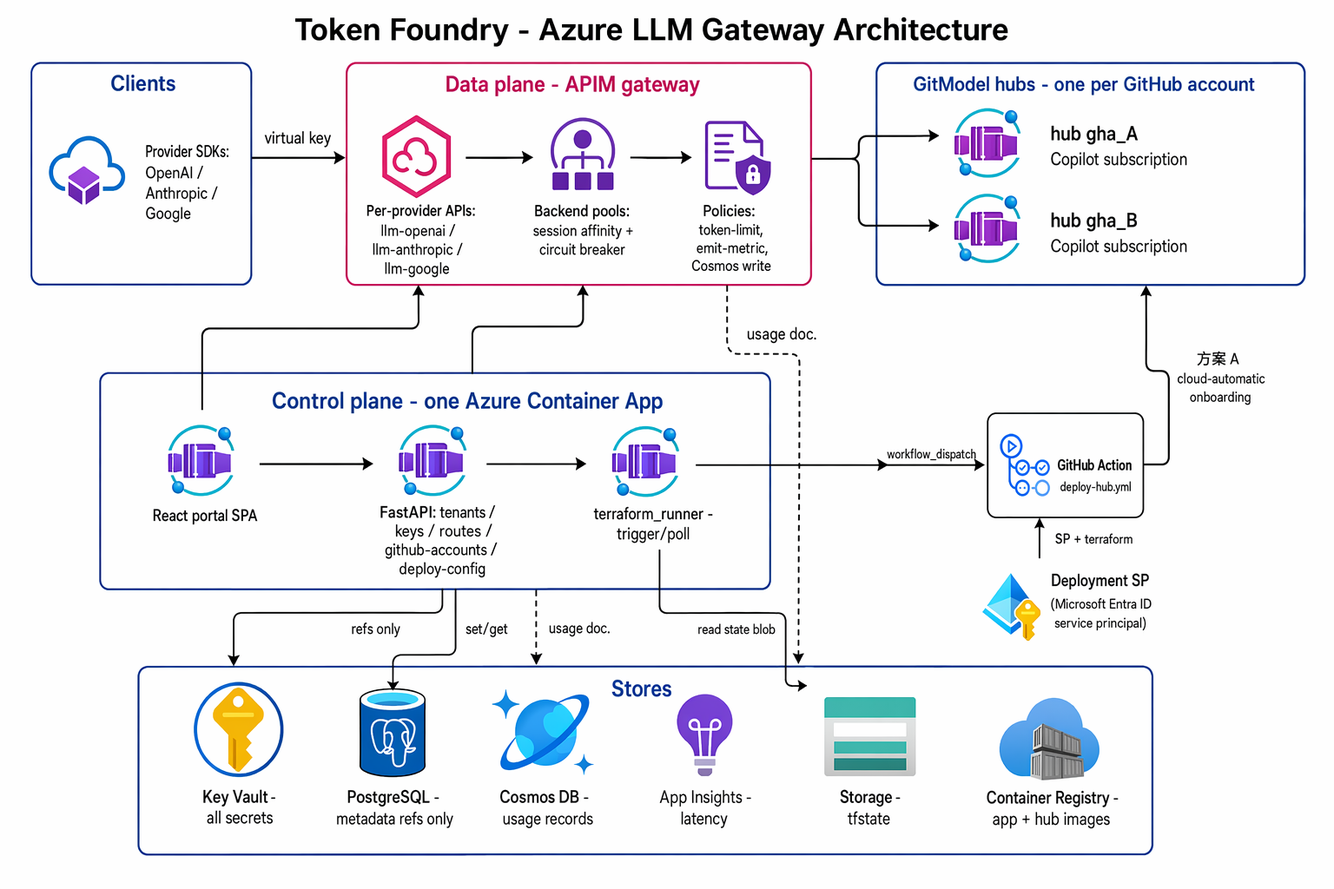
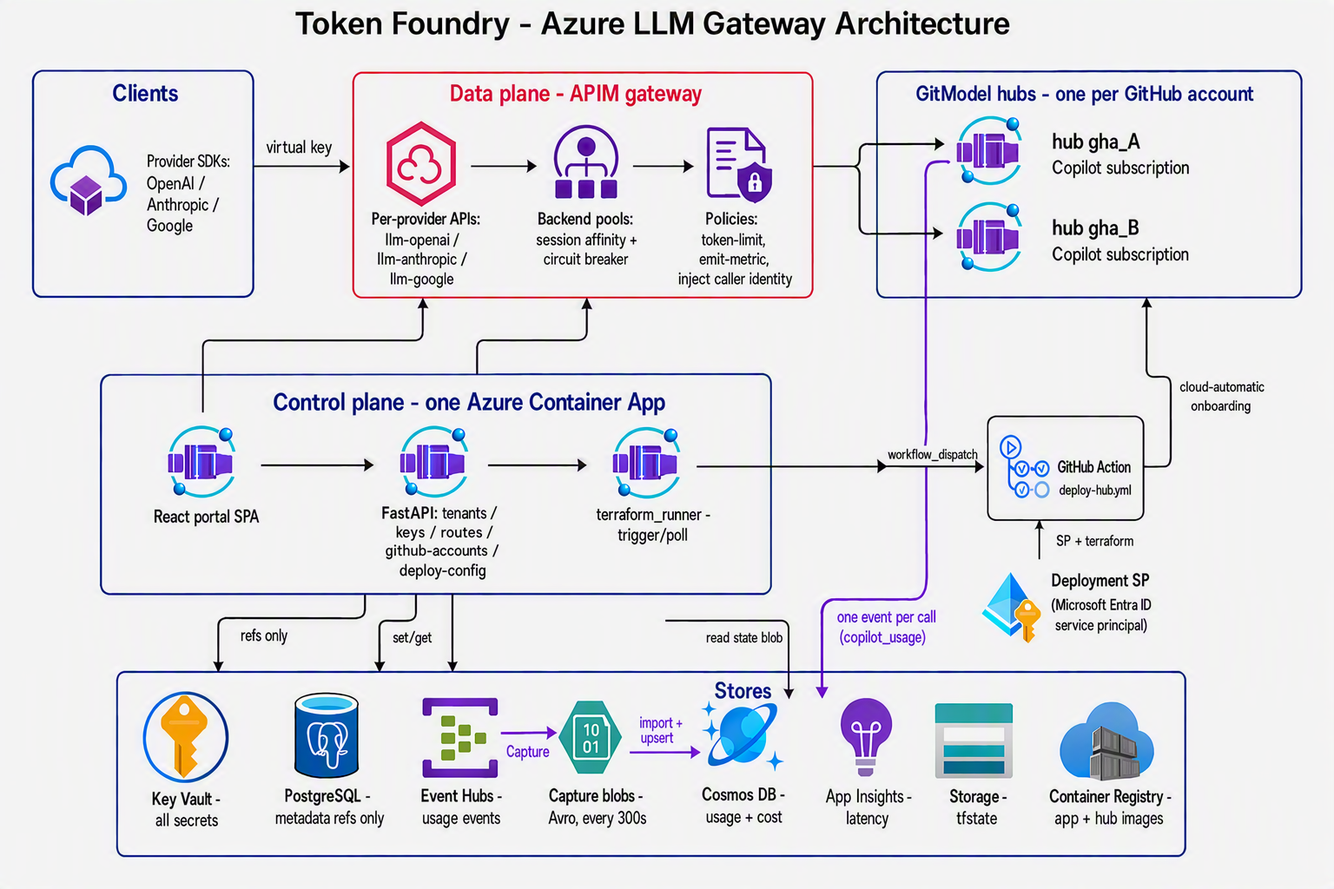
docs: document the Event Hub billing pipeline and refresh the architecture diagram
Usage stopped flowing through APIM's outbound policy some time ago — the hub
now emits one event per call to Event Hub, Capture flushes them to Avro blobs,
and the control plane's import job folds them into Cosmos. Both READMEs still
described the retired design, so anyone reading them would look for a Cosmos
write that no longer happens.

- mermaid: add EH / CAP / IMP nodes, drop the two `usage doc.` arrows out of
  APIM, and change the policy caption to what it actually does now (inject
  caller identity, not write Cosmos).
- new "how usage is collected" section covering the five hops, why cost comes
  from upstream `copilot_usage` rather than a price table we maintain, and the
  two chained 300s intervals that make data visible in ~5 min (worst case 10).
- state the cost plainly: the hub keeps no local usage, so an Event Hub or
  importer outage loses that window outright.
- note that APIM's identity still holds Cosmos Data Contributor from the
  retired policy — it is live over-permission and should be removed.
- architecture.png redrawn from the mermaid source: Event Hubs + Capture blobs
  now appear in the stores row with the billing flow drawn through them.

diff --git a/README.zh.md b/README.zh.md
@@ -22,7 +22,7 @@ flowchart TB
     subgraph dataplane[数据平面 — APIM 网关]
         API[按供应商的 API<br/>llm-openai / llm-anthropic / llm-google]
         POOL[后端池<br/>会话粘性 + 熔断]
-        POL[策略<br/>token 限流 · 计量 · 写 Cosmos]
+        POL[策略<br/>token 限流 · 计量 · 注入调用方身份]
     end
 
     subgraph hubs[GitModel hub — 每个 GitHub 账号一个]
@@ -35,66 +35,89 @@ flowchart TB
         APISRV[FastAPI: 租户 / 密钥 / 路由 /<br/>github-accounts / deploy-config]
         PROV[ApimProvisioner]
         TRUN[terraform_runner<br/>方案 A 触发/轮询]
+        IMP[用量导入作业<br/>解 Avro · 算成本 · upsert]
     end
 
     subgraph stores[存储]
         KV[(Key Vault<br/>所有密钥)]
         PG[(PostgreSQL<br/>元数据,仅引用)]
-        COS[(Cosmos DB<br/>用量记录)]
+        EH[[Event Hub<br/>usage]]
+        CAP[(Capture Blob<br/>Avro,300s 一刷)]
+        COS[(Cosmos DB<br/>用量 + 成本)]
         INS[App Insights<br/>延迟遥测]
     end
 
     SDK -->|虚拟密钥| API --> POOL --> H1 & H2
-    POL -.用量文档.-> COS
+    H1 & H2 -->|每次调用一个事件<br/>含上游 copilot_usage| EH --> CAP
+    CAP -->|列 blob| IMP --> COS
     PORTAL --> APISRV --> PROV -->|ARM REST| API & POOL
     APISRV --> TRUN -->|workflow_dispatch| GHA[GitHub Action<br/>deploy-hub.yml]
     GHA -->|SP + terraform| H1 & H2
     APISRV -->|仅引用| PG
     APISRV -->|set/get| KV
-    APISRV -->|读用量| COS
+    APISRV -->|读用量/成本| COS
     APISRV -->|读延迟| INS
     TRUN -->|读 state blob| TFSTATE[(tfstate 存储)]
 ```
 
 > **唯一不变量:** 控制平面配置网关(管理平面),**绝不介入请求路径**。LLM 流量走
-> 客户端 → APIM → hub,由 APIM 策略计量。全系统只有**一个** Cosmos DB —— APIM 每次
-> 调用写一条用量记录(出站策略),FastAPI 从同一个库读出来给用量页。完整的系统图、
-> 方案 A 接入时序、实体模型见
+> 客户端 → APIM → hub。用量由 **hub** 上报:每次调用发一个事件到 Event Hub,经
+> Capture 落成 Avro blob,再由控制平面的导入作业批量写进 Cosmos;门户从同一个库
+> 读出来。计费口径来自**上游 GitHub Copilot 自己返回的 `copilot_usage`**(含单价
+> 与总价),不是我们维护的价目表。完整的系统图、方案 A 接入时序、实体模型见
 > **[docs/architecture.md](docs/architecture.md)** ([中文](docs/architecture.zh.md))。
 
 ![Token Foundry 架构](docs/architecture.png)
 
-- **APIM = 数据平面** —— 鉴权、token 限流、路由、负载均衡 + 熔断,以及那条
-  **每次调用直接把一条用量记录写进 Cosmos 的出站策略**(托管身份鉴权、
-  `send-one-way-request`,所以绝不阻塞 LLM 响应)。
-- **FastAPI = 控制平面** —— 只负责开通、计量、强制策略;从 Cosmos 读回用量、
-  从 App Insights 读延迟;同时托管构建好的 SPA(一个镜像、一个 Container App、
-  无需 nginx)。
+- **APIM = 数据平面** —— 鉴权、token 限流、路由、负载均衡 + 熔断,以及把调用方
+  身份注入请求头(`x-tf-subscription` / `x-tf-api` / `x-tf-request-id`),这是分账
+  的依据。**它不写用量存储** —— 用量由 hub 上报。
+- **FastAPI = 控制平面** —— 只负责开通、计量、强制策略;把 Event Hub Capture 的
+  blob 导入 Cosmos,再从 Cosmos 读回用量与成本、从 App Insights 读延迟;同时托管
+  构建好的 SPA(一个镜像、一个 Container App、无需 nginx)。
 - **React = 人机层** —— 运营控制台(管理端)+ 客户门户(客户端)。
 
 ### 用量是怎么采集的(计费链路)
 
-在这条链路存在之前,门户的用量数字一直是 `0` —— 因为根本没有写入方。现在它是
-一次直写就搞定:
+计费口径来自**上游自己**:GitHub Copilot 在每个响应里返回 `copilot_usage`,里面
+有各类 token 的数量、单价和总价。我们不再维护自己的价目表 —— 那意味着每次上游调价
+都要人工跟进,而两张表迟早会漂移。
 
-1. 客户端带着虚拟密钥通过 APIM 调用某个供应商 API。
-2. 响应成功时,APIM 的**出站策略**(`apim/policies/outbound-cosmos-write.xml`)
-   往 Cosmos `usage` 容器 POST 一条文档 —— **供应商的原始响应 JSON** 加上元数据
-   (请求 id、订阅/虚拟密钥 id、时间戳、API 名称、分区键)。写入时**不**解析 token,
-   token 就留在 `raw_response` 里。
-3. 控制平面在**读取**时才解析 token(`app/api/usage.py`),按各家格式处理
-   (`prompt_tokens`/`completion_tokens`、Anthropic 与 OpenAI-Responses 的
-   `input_tokens`/`output_tokens`、各种缓存 token 变体),并通过把记录里的
-   虚拟密钥 id 与 PostgreSQL 比对(`虚拟密钥 → 项目 → 租户`)来确定该记录归属的租户。
+```text
+客户端 → APIM → hub → GitHub Copilot
+           │       │
+           │       └→ Event Hub → Capture(Avro) → 导入作业 → Cosmos → 门户
+           └ 注入 x-tf-subscription / x-tf-api / x-tf-request-id
+```
 
-这是一个有意为之的 MVP 取舍:`send-one-way-request` 是即发即忘,写入失败**不会重试**
-(对趋势性用量来说偶尔丢失可以接受)。计费级、可重放的精确记账走**计划中的** Event Hub
-链路(第二阶段 —— 流和消费者都尚未构建)。
+1. 客户端带着虚拟密钥通过 APIM 调用某个供应商 API。APIM 注入三个身份头,并带
+   `exists-action="override"` —— 否则客户端可以伪造 `x-tf-subscription`,把账算到
+   别人头上。
+2. hub 转发给上游,并从响应里取出 `copilot_usage` **原样**放进事件体,连同身份、
+   模型、是否流式、以及客户端可选的 `metadata.user_id`/`user`(终端用户标签)。
+   hub **不做任何成本换算** —— 算钱是导入侧的事,这样上游改口径时不用重放数据。
+   流式响应也一样采集:`copilot_usage` 在 SSE 流里单独占一个 chunk,hub 扫描全流
+   取出它。
+3. 事件进 Event Hub(SDK buffered 模式,不阻塞响应路径;发送失败只丢事件、绝不影响
+   请求成败),由 **Capture** 每 300 秒刷成 Avro blob 落到存储。
+4. 控制平面的**导入作业**(`app/services/usage_capture_import.py`)按水位线列出新
+   blob、解 Avro、算成本(`USD = total_nano_aiu / 1e11`)、**upsert** 进 Cosmos ——
+   文档 id 就是 APIM 的 request id,所以 Capture 的 at-least-once 重复投递天然幂等。
+5. 门户从 Cosmos 读:按模型/API/虚拟密钥/hub/终端用户分组,每组带 token 明细和成本。
+
+**延迟**:Capture 300s + 导入轮询 300s,所以最坏约 10 分钟、平均约 5 分钟可见。计费
+场景可接受;要看近实时用量走 App Insights 那条线。
+
+**代价**:hub 本地不再存用量,唯一出口是 Event Hub。Event Hub 或导入作业出问题时,
+那段时间的计费数据无处找回(hub 的 SQLite 本就在 `/tmp`、重启即空,留着也不是可靠
+退路,所以这是显性化而非新增的风险)。
 
 ### 用量页有两个数据源,分开展示
 
-- **用量与成本 —— 来自 Cosmos**(计费源):每次调用的明细日志,含模型、项目/密钥、
-  输入/输出/缓存 token。
+- **用量与成本 —— 来自 Cosmos**(计费源):每次调用的明细,按模型 / API / 虚拟密钥 /
+  hub / 终端用户分组,含 input、cache_read、cache_write、output 各类 token 与
+  `cost_usd`/`billed_usd`。**流式与非流式一视同仁** —— 这是 App Insights 那条线做
+  不到的(它读不到流式响应体里的 token)。
 - **调用与延迟 —— 来自 App Insights**(遥测,可能被采样):调用次数、p50/p95、
   **网关 vs 后端延迟拆分**(APIM 耗时 vs LLM 耗时)、失败数,以及每小时调用趋势。
   被采样的数据用于健康度/性能没问题,但**绝不能**用于计费 —— 这正是两个数据源
@@ -126,9 +149,9 @@ flowchart TB
 - **供应商自家的 SDK 直接可用。** 每家供应商有自己独立的 APIM API,沿用该供应商
   *原生*的订阅密钥请求头(Anthropic 用 `x-api-key`,OpenAI/Azure/Google 用
   `api-key`),客户端只需把现有 SDK 指向网关 URL,其它一律不改。
-- **用量采集零应用延迟。** **出站策略**通过 `send-one-way-request`(发完即走、
-  托管身份鉴权)把每次调用的一条用量记录直接写进 Cosmos —— LLM 响应绝不因这次写入
-  而阻塞,也没有任何应用进程挡在响应路径上。
+- **用量采集零应用延迟。** hub 用 buffered producer 把每次调用的一个事件发往
+  Event Hub —— 发送只是一次内存写入,LLM 响应不会因它阻塞。响应路径上没有任何
+  一环能让请求失败:Event Hub 挂了只丢事件,不丢调用。
 - **数据路径上没有上游密钥。** 真实的供应商密钥存在 Key Vault 里、绑定到 APIM
   后端;客户端始终只持有一个按租户隔离的虚拟密钥(一个 APIM 订阅),可以被独立
   挂起/吊销。网关用自己的**托管身份**访问 Azure 资源(Cosmos、AOAI)—— 全程无密钥。
@@ -148,8 +171,9 @@ flowchart TB
   `disableLocalAuth`(仅 AAD)运行。要轮换的密钥更少,而且 Terraform
   (按环境用 workspace 隔离)能复现整套环境。
 
-> 诚实地说明取舍:MVP 的用量写入是发完即走的,所以偶尔丢一条记录、对*趋势*用量
-> 是可接受的。计费级、可重放的精确记账走计划中的 Event Hub 那条路(第二阶段)。
+> 诚实地说明取舍:丢失窗口就是 producer 缓冲区里的那几秒 —— 正常关闭会 flush,
+> 只有实例被强杀才会丢。要彻底消除,得给 hub 挂持久卷,那会推翻 infra 里
+> 「hub 无状态」的既定设计。
 
 ## 目录结构
 
@@ -185,7 +209,7 @@ Key Vault / APIM 残留都不会撞。
 | `postgres` | PostgreSQL Flexible Server 16 | `Standard_B1ms` 突发型。防火墙规则 `AllowAzureServices` 让 Container Apps 能连上 —— 生产环境应收紧为 VNet。 |
 | `cosmos` | Cosmos DB for NoSQL | **Serverless**,`disableLocalAuth: true`(仅 AAD)。库 `tokenfoundry`,容器 `usage`,分区键 `/pk`(`subscriptionId_yyyymm`),**90 天 TTL**。 |
 | `acr` | 容器注册表(Basic) | `adminUserEnabled: false` —— 拉取走 Container App 的托管身份(AcrPull)。同时存 `tokenfoundry:<tag>` **和** `gitmodel:<tag>`(hub 镜像)。 |
-| `apim` | API Management(Developer SKU) | 系统分配身份。配置 App Insights 的 logger + diagnostic,并给自己的身份授予 **Cosmos Data Contributor**,使出站策略能写用量。 |
+| `apim` | API Management(Developer SKU) | 系统分配身份。配置 App Insights 的 logger + diagnostic。**注:身份上还留着 Cosmos Data Contributor,是已废弃的出站直写策略的遗留 —— 现在用不到了,应当移除。** |
 | `apim-backends` | 后端池 + 熔断器 | 经 `azapi` 使用**预览版** API 版本。占位池;真正的每供应商池 + 每账号 hub 后端由 FastAPI provisioner 在**运行时**创建。 |
 | `deployer` | tfstate 存储账户 | **方案 A** 的 GitHub Action 读写每账号 hub state(`hubs/<id>.tfstate`)的远程 state blob 容器;控制平面从中读输出。 |
 | `appsecrets` | Key Vault 密钥 | 拼装 Postgres 连接串,并写入 `tf-database-url` / `tf-jwt-secret` / `tf-admin-password`。 |
@@ -203,7 +227,8 @@ Container App 有意使用**两个**身份:
   (写订阅密钥 + BYO 密钥)、**Cosmos DB Data Contributor**(读用量 —— 数据平面
   RBAC,区别于控制平面),以及 App Insights 上的 **Monitoring Reader**(KQL 遥测)。
 
-APIM 的系统身份另外被单独授予 **Cosmos DB Data Contributor**,用于出站策略的写入链路。
+APIM 的系统身份上还留着 **Cosmos DB Data Contributor** —— 那是已废弃的出站直写策略
+的遗留;用量现在由 hub 经 Event Hub 上报,APIM 不再需要写 Cosmos,这条授权应当移除。
 
 **方案 A 的部署服务主体**(由 `scripts/create-deployer-sp.sh` 创建)是一个独立身份 ——
 订阅级 **Contributor** + **User Access Administrator**,外加 tfstate 存储账户上的
@@ -355,7 +380,7 @@ URL 和一个虚拟密钥;所需变量见脚本头部。
   (按环境用 workspace 隔离)、token 限流 + emit-token-metric 策略、
   **每 key 的 TPM + token-quota 限额**(named-value 驱动)、
   **方案 A 云端自动 GitModel hub 接入**(设备流 → GitHub Action → 入池)、
-  **APIM→Cosmos 直写用量采集**,以及**双数据源用量页**
+  **hub → Event Hub → Capture → Cosmos 的计费管线**(成本取自上游自己的
+  `copilot_usage`)、**按订阅 / hub / 终端用户的成本分摊**,以及**双数据源用量页**
   (Cosmos 计费 + App Insights 延迟)。
-- **第二阶段(计划中):** 用于可重放/可重试记账的 Event Hub 计费 worker、
-  语义缓存、BYO 凭据隔离、经由流的预算 $ 强制、成本分摊(chargeback)。
+- **第二阶段(计划中):** 语义缓存、BYO 凭据隔离、基于用量流的预算 $ 强制。

diff --git a/README.md b/README.md
@@ -24,7 +24,7 @@ flowchart TB
     subgraph dataplane[Data plane — APIM gateway]
         API[Per-provider APIs<br/>llm-openai / llm-anthropic / llm-google]
         POOL[Backend pools<br/>session affinity + circuit breaker]
-        POL[Policies<br/>token-limit · emit-metric · Cosmos write]
+        POL[Policies<br/>token-limit · emit-metric · inject caller identity]
     end
 
     subgraph hubs[GitModel hubs — one per GitHub account]
@@ -37,72 +37,104 @@ flowchart TB
         APISRV[FastAPI: tenants / keys / routes /<br/>github-accounts / deploy-config]
         PROV[ApimProvisioner]
         TRUN[terraform_runner<br/>方案 A trigger/poll]
+        IMP[usage import job<br/>decode Avro · price · upsert]
     end
 
     subgraph stores[Stores]
         KV[(Key Vault<br/>all secrets)]
         PG[(PostgreSQL<br/>metadata, refs only)]
-        COS[(Cosmos DB<br/>usage records)]
+        EH[[Event Hub<br/>usage]]
+        CAP[(Capture blobs<br/>Avro, flushed every 300s)]
+        COS[(Cosmos DB<br/>usage + cost)]
         INS[App Insights<br/>latency telemetry]
     end
 
     SDK -->|virtual key| API --> POOL --> H1 & H2
-    POL -.usage doc.-> COS
+    H1 & H2 -->|one event per call<br/>upstream copilot_usage verbatim| EH --> CAP
+    CAP -->|list blobs| IMP --> COS
     PORTAL --> APISRV --> PROV -->|ARM REST| API & POOL
     APISRV --> TRUN -->|workflow_dispatch| GHA[GitHub Action<br/>deploy-hub.yml]
     GHA -->|SP + terraform| H1 & H2
     APISRV -->|refs only| PG
     APISRV -->|set/get| KV
-    APISRV -->|read usage| COS
+    APISRV -->|read usage + cost| COS
     APISRV -->|read latency| INS
     TRUN -->|read state blob| TFSTATE[(tfstate storage)]
 ```
 
 > **The one invariant:** the control plane configures the gateway (management
 > plane) and **never sits in the request path**. LLM traffic goes client → APIM
-> → hub, metered by APIM policy. There is **one** Cosmos DB — APIM *writes* a
-> usage record on every call (outbound policy), and FastAPI *reads* that same
-> store for the usage page. The full system diagram, the 方案 A onboarding
-> sequence, and the entity model live in
+> → hub. Usage is reported by the **hub**: one event per call into Event Hub,
+> flushed to Avro blobs by Capture, then batch-imported into Cosmos by the
+> control plane; the portal reads that same store. Prices come from **GitHub
+> Copilot's own `copilot_usage`** (unit prices and total, returned on every
+> response), not from a table we maintain. The full system diagram, the 方案 A
+> onboarding sequence, and the entity model live in
 > **[docs/architecture.md](docs/architecture.md)** ([中文](docs/architecture.zh.md)).
 
 ![Token Foundry architecture](docs/architecture.png)
 
 - **APIM = data plane** — auth, token-limiting, routing, load-balance + circuit
-  breaker, and the **outbound policy that writes one usage record per call
-  directly to Cosmos** (managed-identity auth, `send-one-way-request` so the LLM
-  response is never blocked).
-- **FastAPI = control plane** — provisioning + accounting + enforcement; reads
-  usage back from Cosmos and latency from App Insights; also serves the built
-  SPA (one image, one Container App, no nginx).
+  breaker, and injecting the caller's identity as headers (`x-tf-subscription` /
+  `x-tf-api` / `x-tf-request-id`), which is what chargeback keys off. **It does
+  not write the usage store** — the hub reports usage.
+- **FastAPI = control plane** — provisioning + accounting + enforcement; imports
+  Event Hub Capture blobs into Cosmos, then reads usage and cost back from
+  Cosmos and latency from App Insights; also serves the built SPA (one image,
+  one Container App, no nginx).
 - **React = human layer** — operator console (admin) + customer portal.
 
 ### How usage is captured (the billing path)
 
-The portal's usage numbers were `0` until this path existed — there was no
-writer. It now works as a single direct write:
+Prices come from **upstream itself**: GitHub Copilot returns a `copilot_usage`
+object on every response carrying per-type token counts, unit prices, and the
+total. We no longer keep our own price table — that would mean chasing every
+upstream price change by hand, and two tables inevitably drift apart.
 
-1. A client calls a provider API through APIM with its virtual key.
-2. On a successful response, APIM's **outbound policy**
-   (`apim/policies/outbound-cosmos-write.xml`) POSTs one document to the Cosmos
-   `usage` container — the **raw provider response JSON** plus metadata (request
-   id, subscription/virtual-key id, timestamp, API name, partition key). Tokens
-   are *not* parsed at write time; they live inside `raw_response`.
-3. The control plane parses tokens at **read** time (`app/api/usage.py`),
-   handling each provider's shape (`prompt_tokens`/`completion_tokens`,
-   Anthropic + OpenAI-Responses `input_tokens`/`output_tokens`, cached-token
-   variants), and resolves a record's tenant by matching its virtual-key id
-   against PostgreSQL (`virtual key → project → tenant`).
+```text
+client → APIM → hub → GitHub Copilot
+          │       │
+          │       └→ Event Hub → Capture (Avro) → import job → Cosmos → portal
+          └ injects x-tf-subscription / x-tf-api / x-tf-request-id
+```
 
-This is a deliberate MVP trade-off: `send-one-way-request` is fire-and-forget,
-so a failed write is **not retried** (occasional loss is acceptable for trend
-usage). Billing-grade, replayable accounting is the **planned** Event Hub path
-(Phase 2 — the stream + consumer are not built yet).
+1. A client calls a provider API through APIM with its virtual key. APIM injects
+   the three identity headers with `exists-action="override"` — without that a
+   client could forge `x-tf-subscription` and be billed as somebody else.
+2. The hub forwards upstream and lifts `copilot_usage` out of the response
+   **verbatim** into the event, alongside the identity, model, streaming flag,
+   and the client's optional `metadata.user_id` / `user` (the end-user tag). The
+   hub does **no** cost arithmetic — pricing happens on the import side, so an
+   upstream change in how prices are expressed never requires replaying data.
+   Streaming is covered on equal terms: `copilot_usage` arrives on its own SSE
+   chunk, and the hub scans the whole stream to find it.
+3. The event goes to Event Hub (buffered producer, so it never blocks the
+   response path; a send failure loses the event and never the request), and
+   **Capture** flushes to Avro blobs every 300 seconds.
+4. The control plane's **import job** (`app/services/usage_capture_import.py`)
+   lists blobs past a watermark, decodes the Avro, prices each record
+   (`USD = total_nano_aiu / 1e11`), and **upserts** into Cosmos — the document id
+   is APIM's request id, which makes Capture's at-least-once delivery idempotent
+   for free.
+5. The portal reads Cosmos: grouped by model / API / virtual key / hub / end
+   user, each group carrying its token split and cost.
+
+**Latency:** 300s Capture + 300s import poll, so worst case ~10 minutes and
+typically ~5. Fine for billing; for near-real-time usage use the App Insights
+line instead.
+
+**The cost:** the hub keeps no local usage store — Event Hub is the only outlet.
+If Event Hub or the import job breaks, that window's billing data is
+unrecoverable. (The hub's SQLite lives in `/tmp` and is empty on every restart,
+so it was never a dependable fallback; this makes that explicit rather than new.)
 
 ### The usage page has two data sources, shown separately
 
-- **Usage & cost — from Cosmos** (the billing source): per-call log with model,
-  project/key, prompt/completion/cached tokens.
+- **Usage & cost — from Cosmos** (the billing source): per-call detail grouped by
+  model / API / virtual key / hub / end user, with input, cache_read,
+  cache_write and output token counts plus `cost_usd` / `billed_usd`. **Streaming
+  and non-streaming count equally** — something the App Insights line
+  structurally cannot do (it cannot read tokens out of a streamed body).
 - **Calls & latency — from App Insights** (telemetry, may be sampled): call
   counts, p50/p95, **gateway vs backend latency split** (APIM time vs LLM time),
   failures, and a calls-per-hour trend. Sampled data is fine for
@@ -144,36 +176,38 @@ building one. Concretely:
   carrying that provider's *native* subscription-key header (`x-api-key` for
   Anthropic, `api-key` for OpenAI/Azure/Google), so a client points its existing
   SDK at the gateway URL and changes nothing else.
-- **Usage capture costs zero app latency.** The **outbound policy** writes one
-  usage record per call straight to Cosmos via `send-one-way-request`
-  (fire-and-forget, managed-identity auth) — the LLM response is never blocked
-  on the write, and no app process sits in the response path.
+- **Usage capture costs zero app latency.** The hub emits one event per call to
+  Event Hub through a buffered producer, so the send is a memory write and the
+  LLM response is never blocked on it. Nothing in the response path can fail the
+  request: a broken Event Hub loses events, not calls.
 - **No upstream keys on the data path.** Real provider keys live in Key Vault
   and are attached to the APIM backend; clients only ever hold a per-tenant
   virtual key (an APIM subscription) that can be suspended/revoked
-  independently. The gateway authenticates to Azure resources (Cosmos, AOAI)
-  with its **managed identity** — secretless.
+  independently. The gateway authenticates to Azure resources with its
+  **managed identity** — secretless.
 
 ### Why the rest of the shape
 
 - **Control/data-plane split.** FastAPI only *provisions and reads* (creates
-  APIM products/subscriptions/backends via ARM, parses usage at read time); it
+  APIM products/subscriptions/backends via ARM, imports and serves usage); it
   is never in the per-request hot path, so a control-plane deploy can't take the
   gateway down.
 - **One image, one Container App.** The API and the built React SPA ship in a
   single image (no nginx sidecar), so an app change is one `az acr build` + one
   revision roll — exactly the path used to ship the streaming update.
 - **Two usage sources, kept apart.** Cosmos is the billing source (exact,
-  per-call); App Insights is the telemetry source (sampled — call counts,
-  p50/p95, gateway-vs-backend latency split). Sampled data never feeds billing.
+  per-call, priced by upstream); App Insights is the telemetry source (sampled —
+  call counts, p50/p95, gateway-vs-backend latency split). Sampled data never
+  feeds billing.
 - **Azure-native, secretless integration.** Managed identity + Key Vault
   references everywhere; Cosmos runs with `disableLocalAuth` (AAD-only). Fewer
   secrets to rotate, and Terraform (workspace-isolated per env) reproduces the
   whole stack.
 
-> Trade-off, stated honestly: the MVP usage write is fire-and-forget, so an
-> occasional dropped record is acceptable for *trend* usage. Billing-grade,
-> replayable accounting is the planned Event Hub path (Phase 2).
+> Trade-off, stated honestly: the loss window is whatever sits in the producer's
+> buffer — a graceful shutdown flushes it, so only a hard kill drops events.
+> Closing that entirely would mean giving the hub a persistent volume, which
+> contradicts the stateless-hub design the infra is built on.
 
 ## Layout
 
@@ -393,8 +427,9 @@ list of trade-offs — is documented in
   **Terraform for all PaaS** (workspace-isolated per env), token-limit +
   emit-token-metric policy, **per-key TPM + token-quota limits** (named-value
   driven), **方案 A cloud-automatic GitModel hub onboarding** (device flow →
-  GitHub Action → pool join), **APIM→Cosmos direct usage capture**, and the
-  **dual-source usage page** (Cosmos billing + App Insights latency).
-- **Phase 2 (planned):** Event Hub billing worker for replayable/retry-safe
-  accounting, semantic cache, BYO credential isolation, budget $-enforcement via
-  the stream, chargeback.
+  GitHub Action → pool join), the **hub → Event Hub → Capture → Cosmos billing
+  pipeline** priced from upstream's own `copilot_usage`, **chargeback by
+  subscription / hub / end user**, and the **dual-source usage page** (Cosmos
+  billing + App Insights latency).
+- **Phase 2 (planned):** semantic cache, BYO credential isolation, budget
+  $-enforcement driven off the usage stream.
